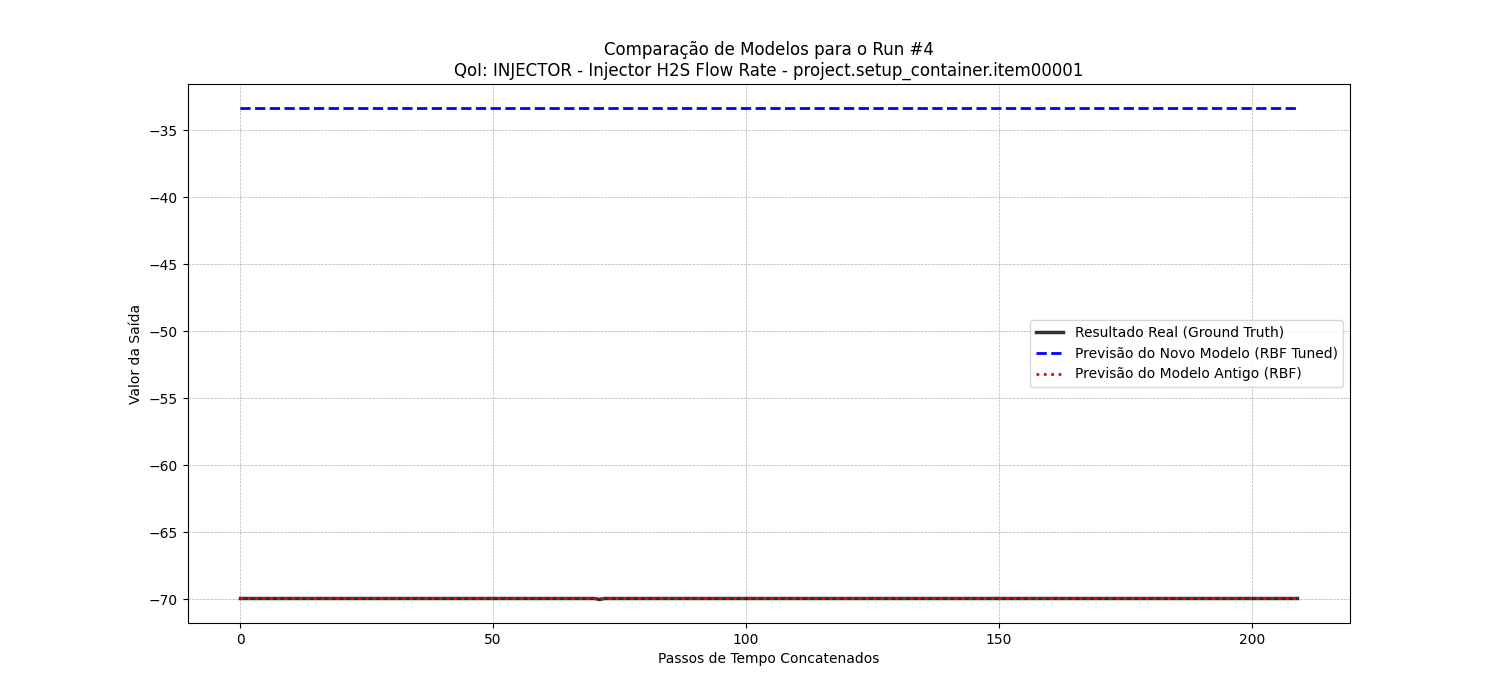
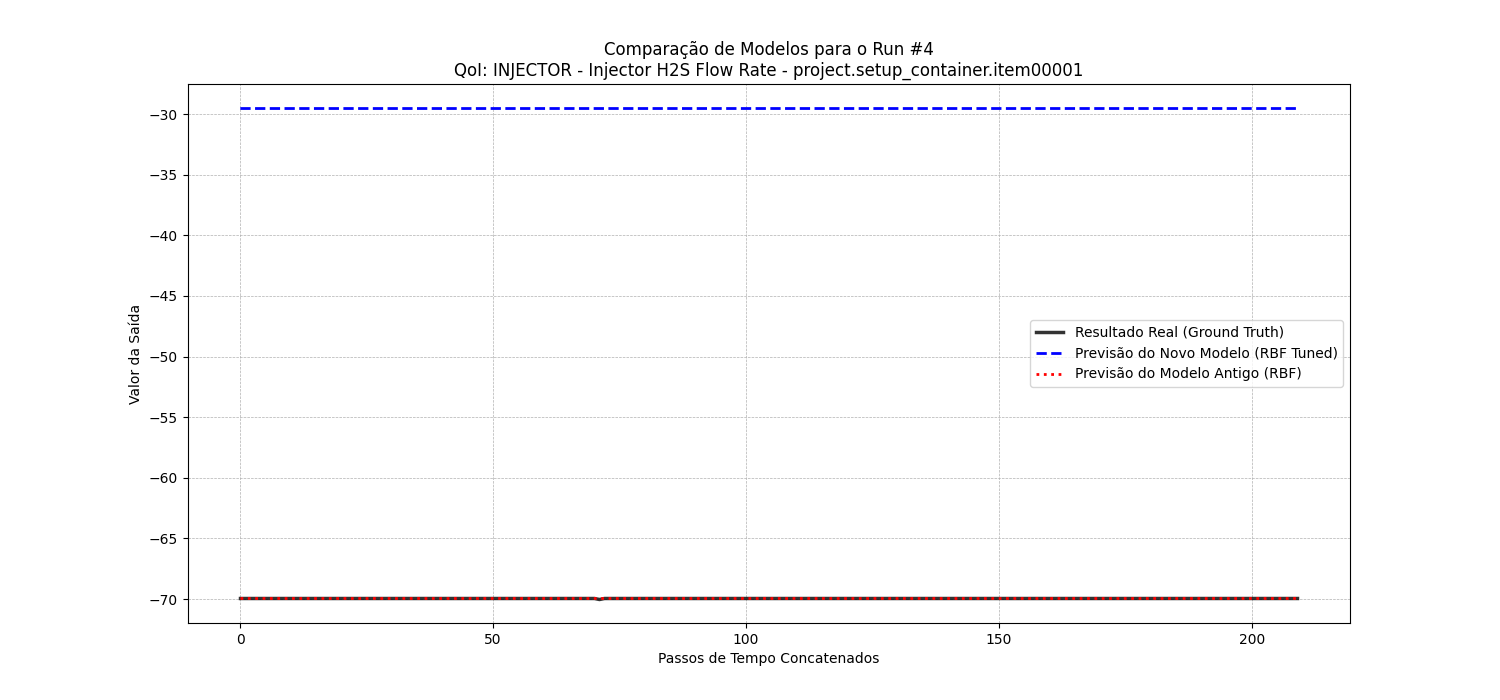
fixed y-variable scaling and cleaned up output

diff --git a/src/surrogate_factory/pipeline.py b/src/surrogate_factory/pipeline.py
@@ -2,6 +2,7 @@ import numpy as np
 import pandas as pd
 from pathlib import Path
 from sklearn.model_selection import train_test_split
+from sklearn.preprocessing import MinMaxScaler
 
 from parsers.esss_json_parser import (
     _parse_variable_metadata, 
@@ -58,6 +59,28 @@ try:
         run_numbers_to_load=test_run_nums,
         result_filename="sa_summary.json"
     )
+    print("\n" + "="*30)
+    print("  INVESTIGAÇÃO: Verificando Dados CRUS (Etapa 3)")
+    
+    # Bloco dinâmico para encontrar um Run e QoI de teste
+    if qois_test:
+        RUN_PARA_TESTAR = list(qois_test.keys())[0] # Pega o primeiro run_num do dict de teste
+        QOI_PARA_TESTAR = list(qois_test[RUN_PARA_TESTAR].keys())[0] # Pega o primeiro QoI desse run
+    
+    if RUN_PARA_TESTAR is not None:
+        try:
+            # Pega o dado CRU do dicionário carregado pelo parser
+            raw_vector = qois_test[RUN_PARA_TESTAR][QOI_PARA_TESTAR]
+            print(f"  QoI: {QOI_PARA_TESTAR}")
+            print(f"  Run: {RUN_PARA_TESTAR} (Primeiro run encontrado no TEST set)")
+            print(f"  Média do Vetor CRU: {np.mean(raw_vector)}")
+            print(f"  Max do Vetor CRU:   {np.max(raw_vector)}")
+            print(f"  Min do Vetor CRU:   {np.min(raw_vector)}")
+        except KeyError:
+            print(f"  AVISO: Falha ao inspecionar Run {RUN_PARA_TESTAR} ou QoI '{QOI_PARA_TESTAR}'.")
+    else:
+        print("  AVISO: `qois_test` está vazio. Nenhum run de teste foi carregado.")
+    print("="*30 + "\n")
 
     print("\n--- Etapa 4: Pré-processando os Dados (Estilo Project 2) ---")
     processed_data = process_data_multi_model(
@@ -73,6 +96,7 @@ try:
     y_train_per_qoi = processed_data["y_train_per_qoi"]
     y_test_per_qoi = processed_data["y_test_per_qoi"]
     qoi_names = processed_data["qoi_names"]
+    y_scalers = processed_data["y_scalers"]
     
     test_indices_map = pd.Series(
         df_test_features['run_number'].values, 
@@ -94,6 +118,8 @@ try:
         # 1. Pegar os dados específicos deste QoI
         y_train_qoi = y_train_per_qoi[qoi_name]
         y_test_qoi = y_test_per_qoi[qoi_name]
+
+        print(f"  [DIAG] Y_TRAIN (Scaled) Min: {np.min(y_train_qoi):.4f}, Max: {np.max(y_train_qoi):.4f}")
         
         # 2. Treinar o modelo RBF com tuning automático (Estilo Project 2)
         try:
@@ -101,7 +127,7 @@ try:
             surrogate_model = build_and_train_tuned_rbf(
                 X_train, y_train_qoi,
                 X_test, y_test_qoi,
-                num_tries=2000 # Reduza para ~20 para testes rápidos, aumente para ~100+ para precisão
+                num_tries=200
             )
             trained_models[qoi_name] = surrogate_model
         except Exception as e:
@@ -135,13 +161,16 @@ try:
             
             # Pega o modelo e os dados Y corretos
             model = trained_models[qoi_name]
-            y_true = y_test_per_qoi[qoi_name][sample_to_compare_idx]
-            
-            # --- MUDANÇA NA PREDIÇÃO ---
-            # Previsão do nosso novo modelo (RBF Tuned)
-            # RBF usa .predict_values()
-            y_pred_new = model.predict_values(x_sample)[0] 
-            
+            y_true_scaled = y_test_per_qoi[qoi_name][sample_to_compare_idx]
+            y_scaler = y_scalers[qoi_name]
+            print(f"  [DIAG] Y_TRUE (Scaled) Min: {np.min(y_true_scaled):.4f}, Max: {np.max(y_true_scaled):.4f}")
+
+            y_true = y_scaler.inverse_transform(y_true_scaled.reshape(-1, 1)).flatten()
+            print(f"  [DIAG] Y_TRUE (Unscaled) Min: {np.min(y_true):.4f}, Max: {np.max(y_true):.4f}")
+            y_pred_new_scaled = model.predict_values(x_sample)[0] 
+            print(f"  [DIAG] Y_PRED (Scaled) Min: {np.min(y_pred_new_scaled):.4f}, Max: {np.max(y_pred_new_scaled):.4f}")
+            y_pred_new = y_scaler.inverse_transform(y_pred_new_scaled.reshape(-1, 1)).flatten()
+            print(f"  [DIAG] Y_PRED (Unscaled) Min: {np.min(y_pred_new):.4f}, Max: {np.max(y_pred_new):.4f}")
             # Previsão do modelo antigo (RBF)
             y_pred_old = y_pred_old_dict.get(qoi_name)
 

diff --git a/src/surrogate_factory/preprocessing/processor.py b/src/surrogate_factory/preprocessing/processor.py
@@ -9,7 +9,7 @@ LÓGICA DO PROJETO 2:
 import numpy as np
 import pandas as pd
 from typing import Dict, List, Any, Tuple, Set
-# A linha 'from sklearn.preprocessing import MinMaxScaler' foi removida.
+from sklearn.preprocessing import MinMaxScaler
 
 def _build_feature_array(
     features_df: pd.DataFrame, 
@@ -169,15 +169,30 @@ def process_data_multi_model(
     
     # Filtra novamente caso o restructure tenha removido algo
     final_valid_qoi_names = sorted(list(final_y_train.keys()))
+
+    y_scalers = {}
+    final_y_train_scaled = {}
+    final_y_test_scaled = {}
+
+    for qoi in final_valid_qoi_names:
+        y_scaler = MinMaxScaler()
+        y_train_flat = final_y_train[qoi].flatten().reshape(-1,1)
+        y_scaler.fit(y_train_flat)
+        y_scalers[qoi] = y_scaler
+
+        final_y_train_scaled[qoi] = y_scaler.transform(y_train_flat).reshape(final_y_train[qoi].shape)
+
+        y_test_flat = final_y_test[qoi].flatten().reshape(-1, 1)
+        final_y_test_scaled[qoi] = y_scaler.transform(y_test_flat).reshape(final_y_test[qoi].shape)
     
     print(f"Processamento concluído. Encontrados {len(final_valid_qoi_names)} QoIs consistentes.")
 
     return {
         "X_train": X_train_processed,
         "X_test": X_test_processed,
-        "y_train_per_qoi": final_y_train,
-        "y_test_per_qoi": final_y_test,
-        "scaler": None, # Não há mais scaler
+        "y_train_per_qoi": final_y_train_scaled,
+        "y_test_per_qoi": final_y_test_scaled,
+        "y_scalers": y_scalers,
         "qoi_names": final_valid_qoi_names,
         "feature_names": feature_names
     }

diff --git a/src/surrogate_factory/models/rbf_model.py b/src/surrogate_factory/models/rbf_model.py
@@ -33,8 +33,8 @@ def build_and_train_tuned_rbf(X_train, y_train, X_test, y_test, num_tries=1000):
     smallest_error = float('inf')
 
     # Define as distâncias e graus a serem testados
-    distances = np.geomspace(1, 1000.0, num=num_tries)
-    degrees = [-1, 0, 1]
+    distances = np.geomspace(1, 100000.0, num=num_tries)
+    degrees = [0]
 
     print(f"--- Iniciando Tuning do RBF (Testando {len(distances) * len(degrees)} combinações) ---")
 
